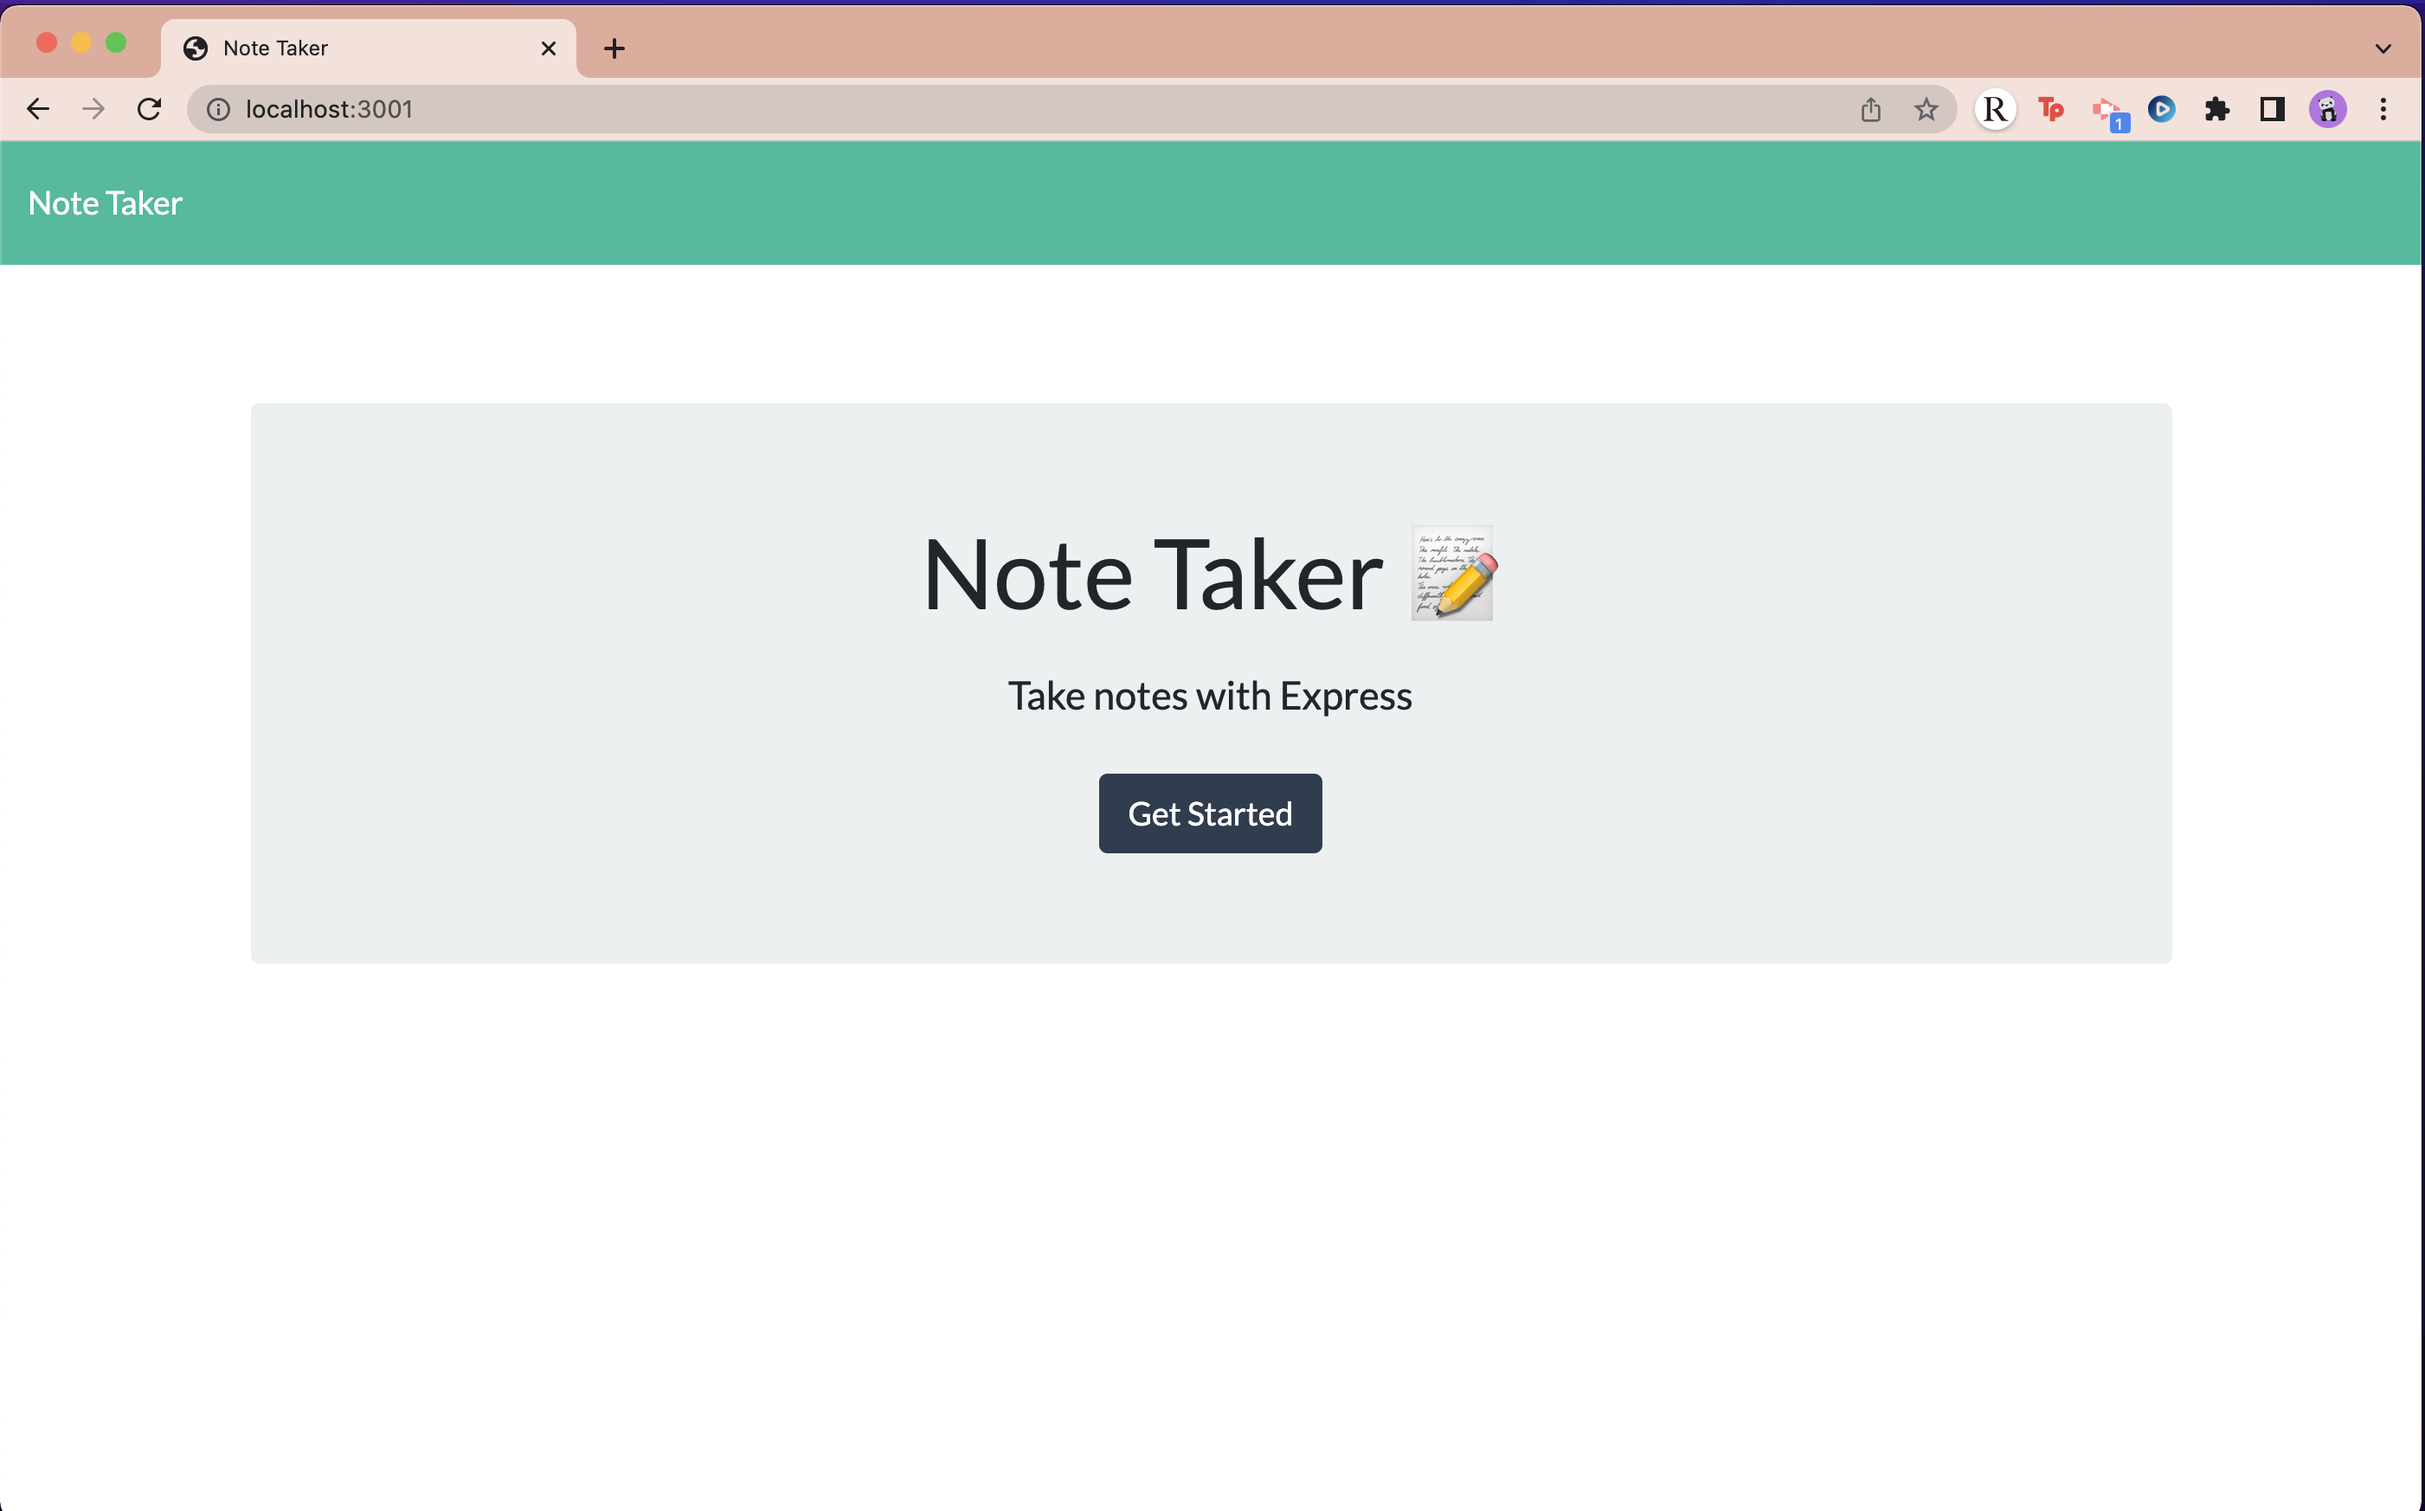
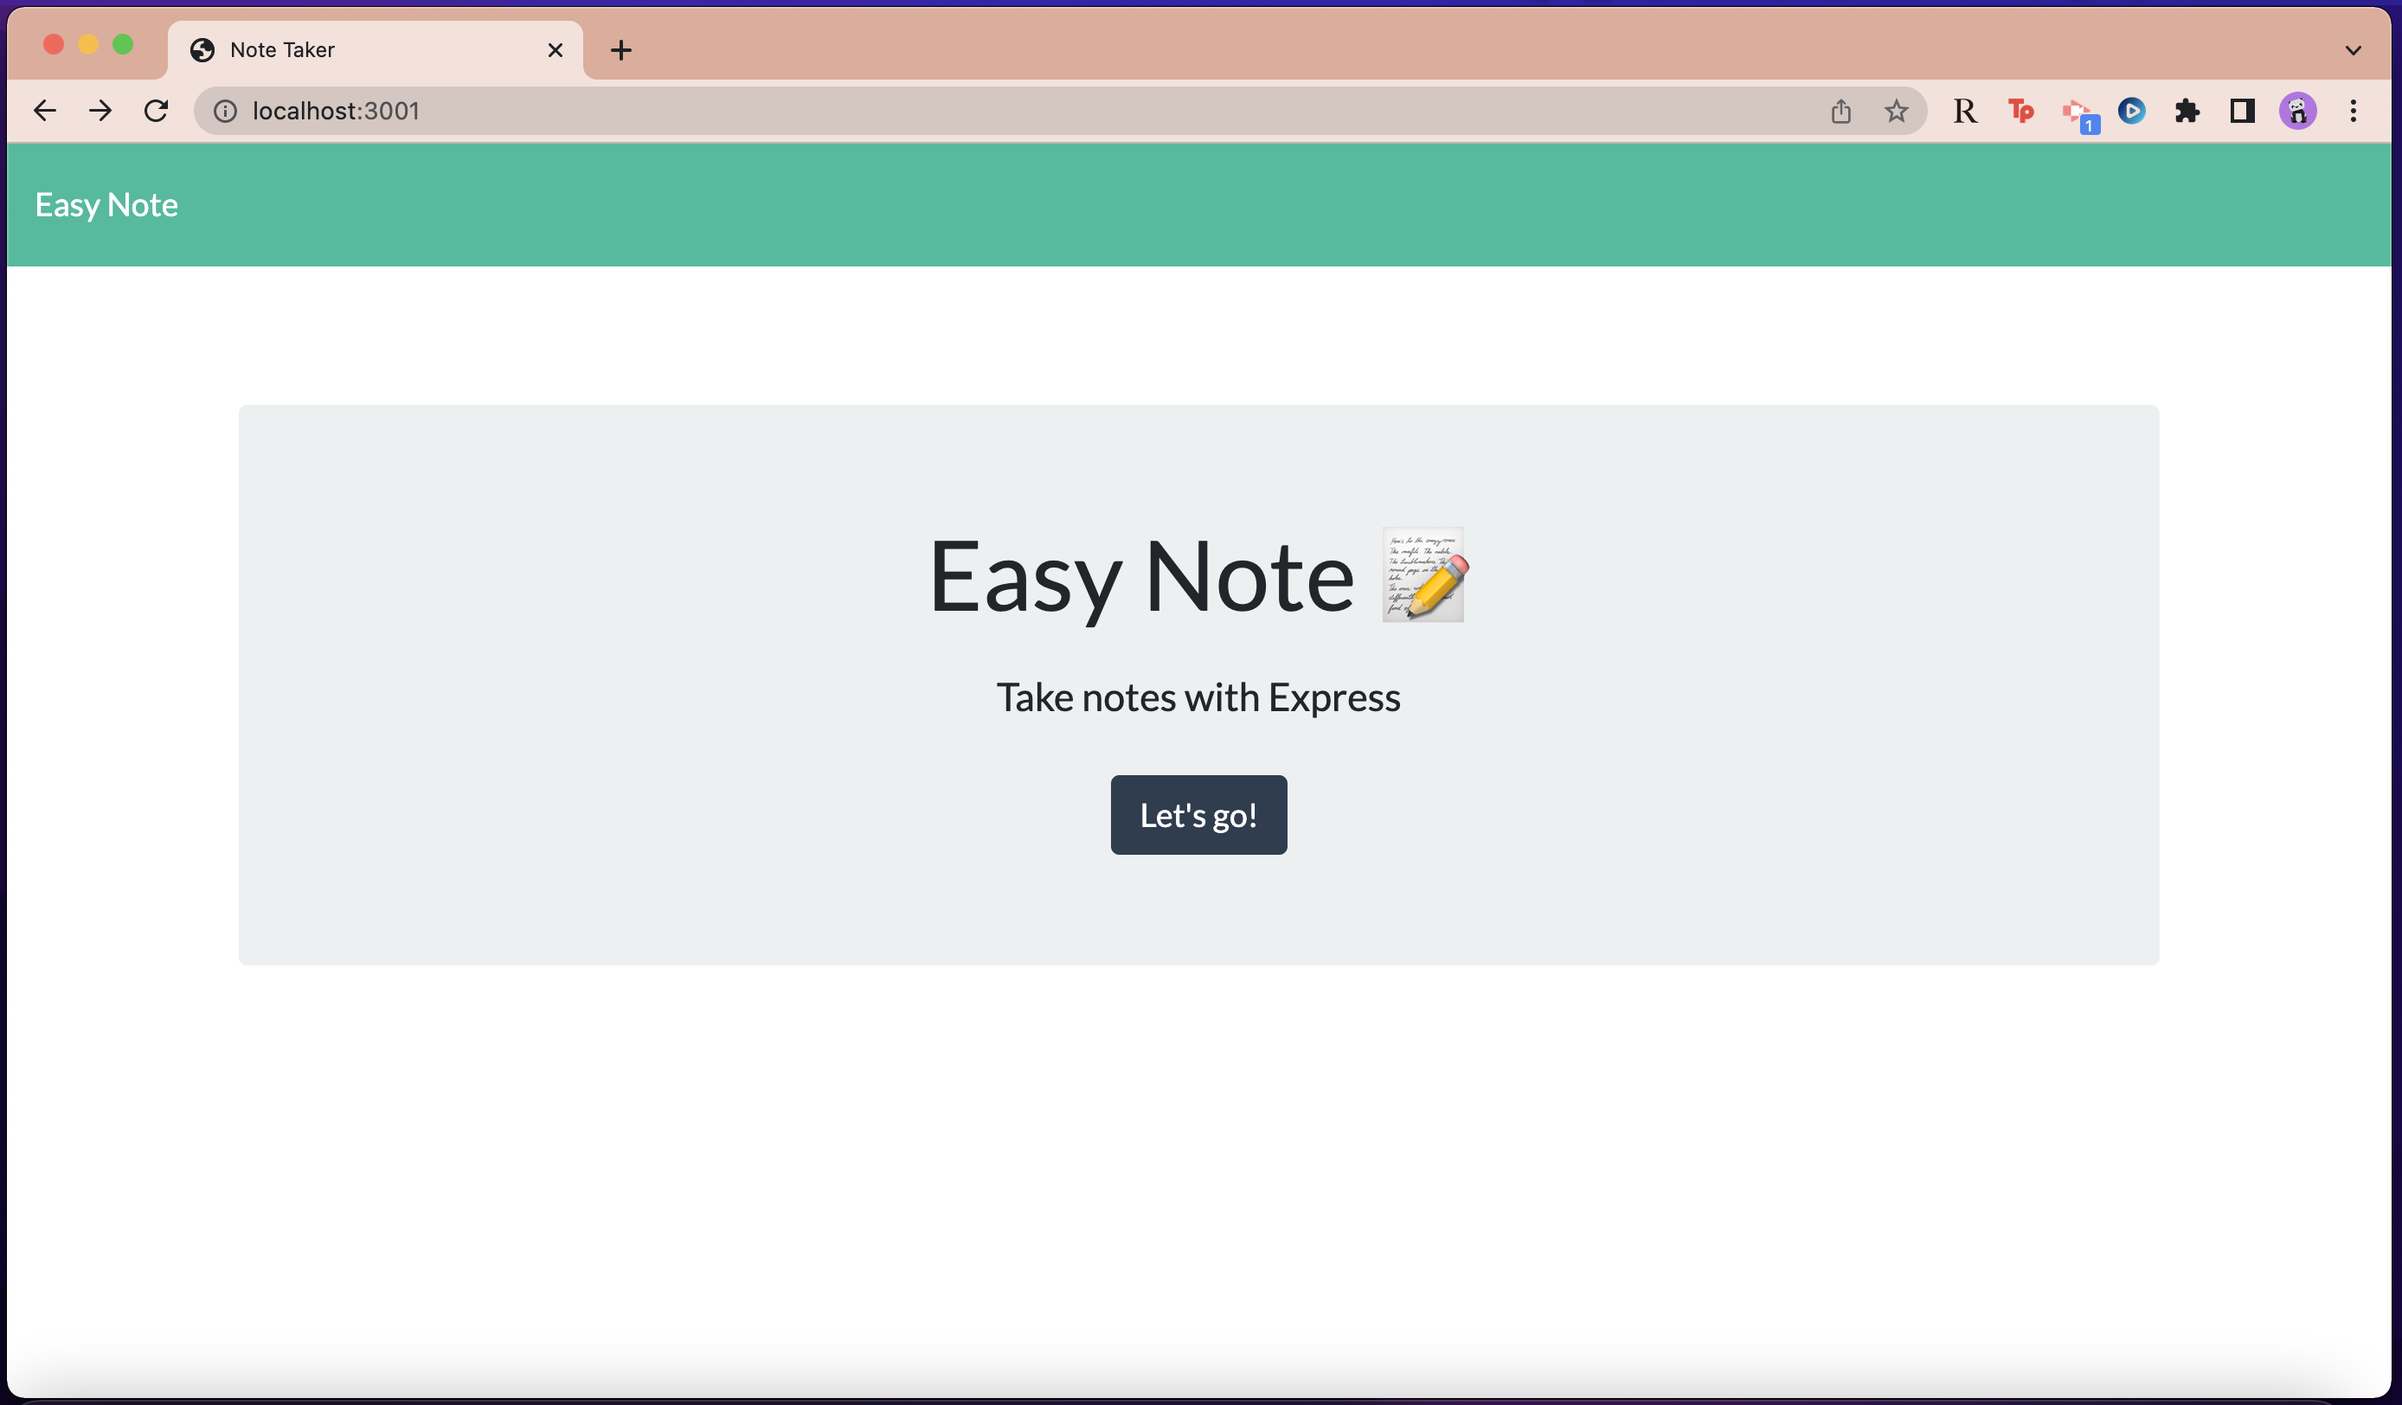
updated readme with new screenshot; updated the title in the html

Changed region(s): [[0.0, 0.0, 1.0, 1.0], [0.3718, 0.3387, 0.6196, 0.6158]]

diff --git a/public/index.html b/public/index.html
@@ -11,14 +11,14 @@
 
 <body>
   <nav class="navbar navbar-dark bg-dark">
-    <a class="navbar-brand" href="/">Note Taker
+    <a class="navbar-brand" href="/">Easy Note
     </a>
   </nav>
   <div class="container">
     <div style="margin-top: 80px;" class="jumbotron text-center">
-      <h1 class="display-4">Note Taker <span role="img" aria-label="Memo">📝</span></h1>
+      <h1 class="display-4">Easy Note <span role="img" aria-label="Memo">📝</span></h1>
       <h4 class="mt-4">Take notes with Express</h4>
-      <a class="btn btn-primary btn-lg mt-4" href="/notes" role="button">Get Started</a>
+      <a class="btn btn-primary btn-lg mt-4" href="/notes" role="button">Let's go!</a>
     </div>
   </div>
   <script src="/assets/js/index.js"></script>

diff --git a/public/notes.html b/public/notes.html
@@ -20,7 +20,7 @@
 
   <body>
     <nav class="navbar navbar-dark bg-dark">
-      <a class="navbar-brand" href="/">Note Taker </a>
+      <a class="navbar-brand" href="/">Easy Note </a>
       <div class="icons">
         <i class="fas fa-save text-light save-note"></i>
         <i class="fas fa-plus text-light new-note"></i>
